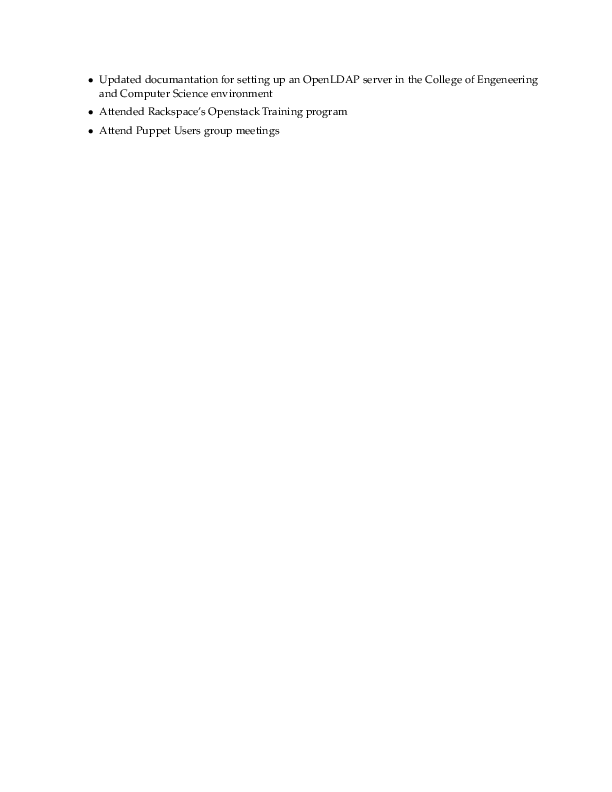
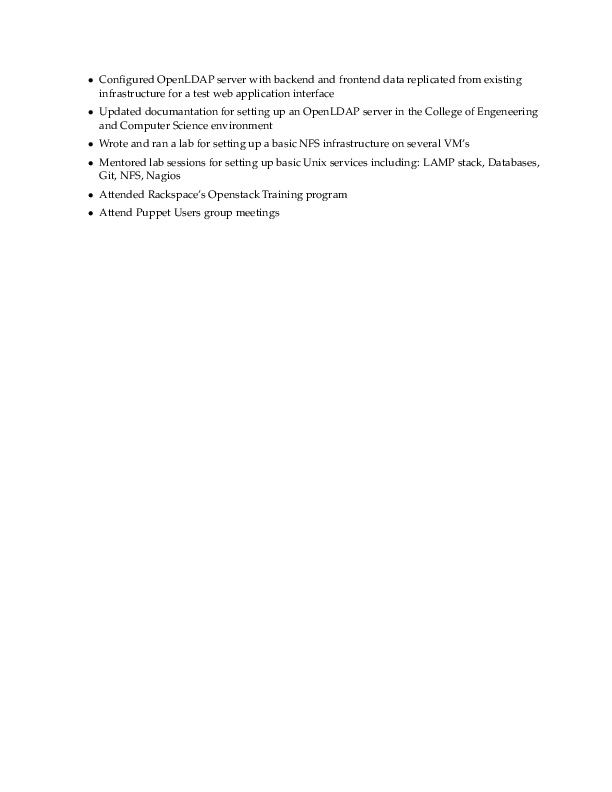
Added more info to resume

Changed region(s): [[0.1552, 0.0909, 0.8693, 0.2727]]

diff --git a/resume.tex b/resume.tex
@@ -126,7 +126,8 @@
         \ressubitem{Familiar with HTML, PHP, CSS, Java, SQL, bash}
 	\end{reslist}
 	\begin{reslist}{Tools and Systems:}
-        \ressubitem{Proficient in GDB, Git, IRC, Puppet, VIM}
+        \ressubitem{Proficient in GDB, Git, IRC, Puppet, VIM, NFS}
+	\ressubitem{Familiar with MS Office Word, Excel, and Powerpoint}
         \ressubitem{Familiar with Apache, OpenLDAP, rsync, scp, LXC vm's, collectd}
 	\end{reslist}
 \end{ressection}
@@ -138,6 +139,8 @@
     \resitem{Building web application for managing employees using HTML/CSS for frontend PHP scripting and MySQL for the backend}
     \resitem{Configured OpenLDAP server with backend and frontend data replicated from existing infrastructure for a test web application interface}
     \resitem{Updated documantation for setting up an OpenLDAP server in the College of Engeneering and Computer Science environment}
+    \resitem{Wrote and ran a lab for setting up a basic NFS infrastructure on several VM's}
+    \resitem{Mentored lab sessions for setting up basic Unix services including: LAMP stack, Databases, Git, NFS, Nagios}
     \resitem{Attended Rackspace's Openstack Training program}
     \resitem{Attend Puppet Users group meetings}
 \end{ressection}
